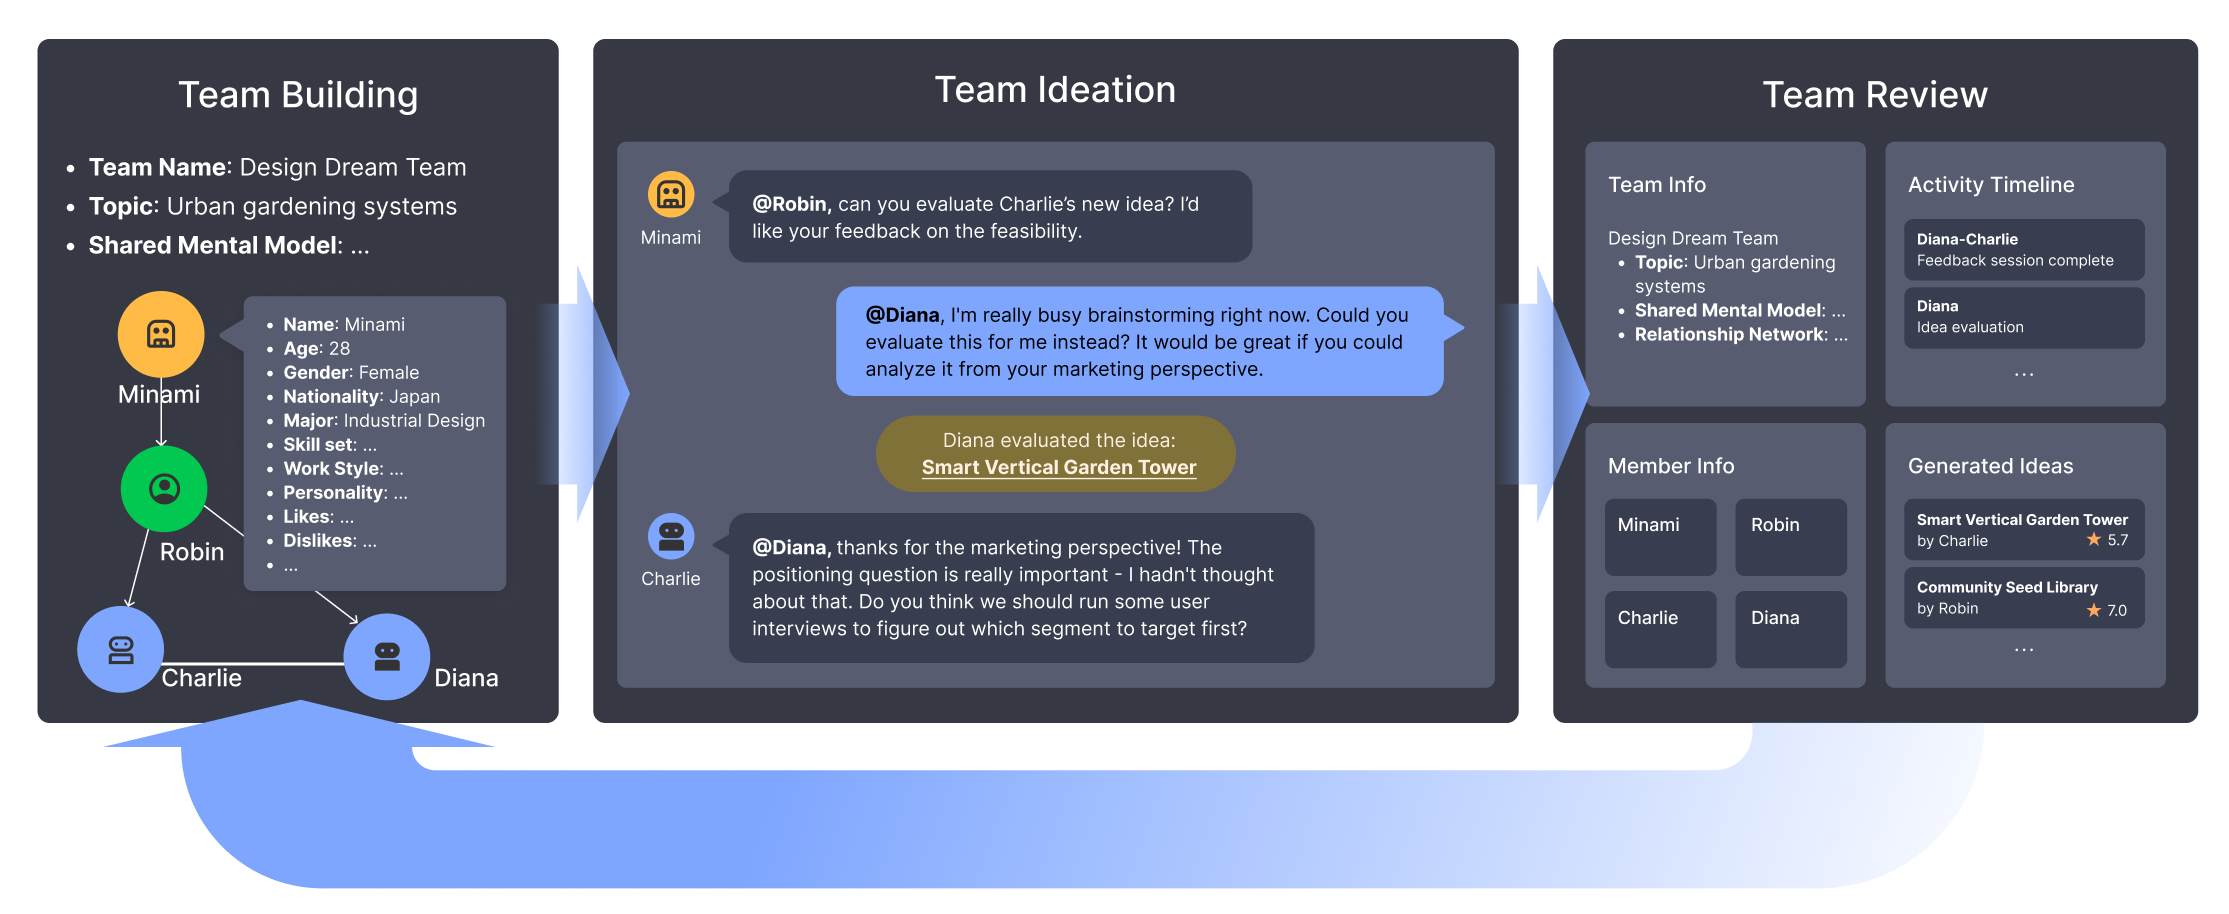
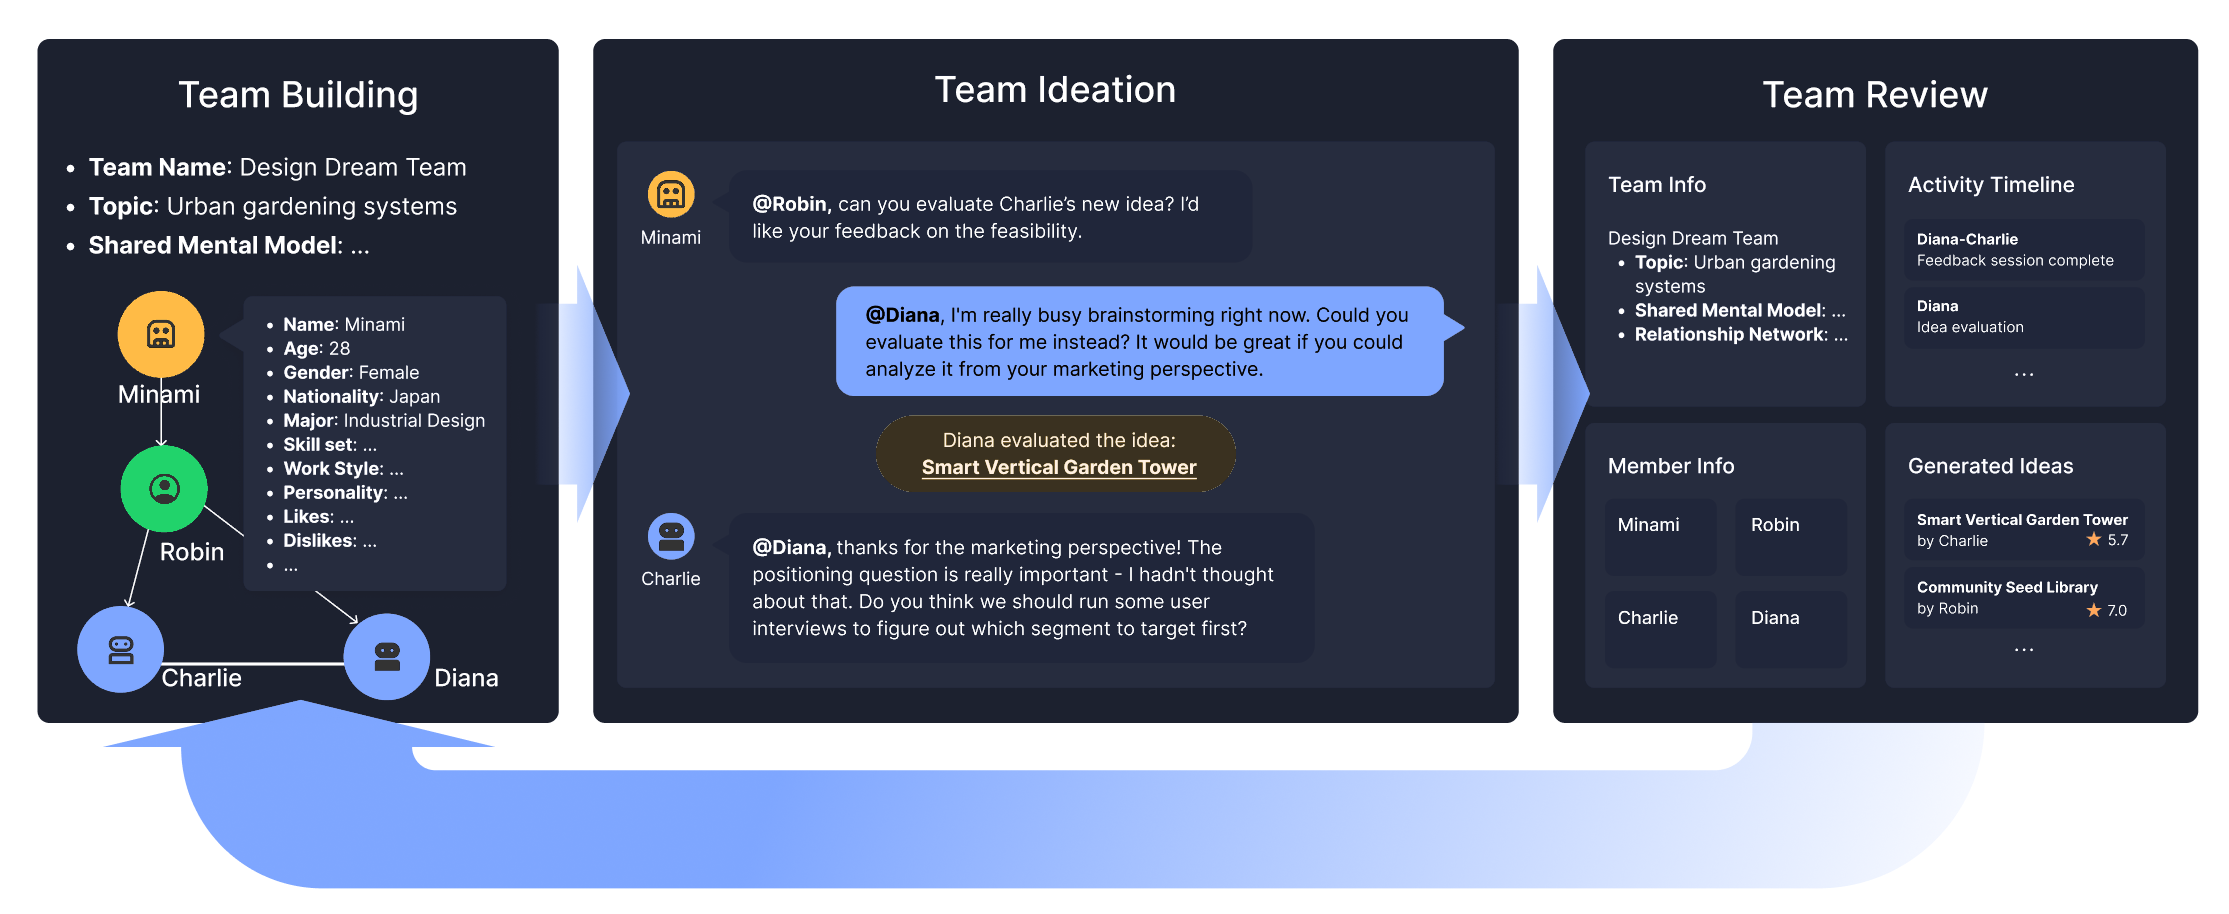
Unify CrafTeam palette between the overview figure and team cards
Add semantic --ct-blue/green/orange/card/panel/edge variables (light values
from overview.png, dark counterparts) and point the Team Formation cards at
them; recolour overview_dark.png onto the same dark palette.

diff --git a/src/Pages/Projects/Crafteam/Crafteam.css b/src/Pages/Projects/Crafteam/Crafteam.css
@@ -1,6 +1,16 @@
 /* Palette for this page — extracted from hardcoded literals. Change a color here, not in the rules below.
    Variables with a dark value are listed again in the .dark-mode block. */
 .project-page--crafteam {
+  /* Shared with public/projects/crafteam/overview(.png|_dark.png): keep the figure and the
+     Team Formation cards on one palette. Light values are the reference; dark values are the
+     counterparts the dark figure is recoloured to. */
+  --ct-blue: #2b7fff;                 /* agents, bubbles, numbers, supervisor edges */
+  --ct-green: #0fca58;                /* the human ("Me" / Robin) */
+  --ct-orange: #ffbb46;               /* accent (Minami, highlight card) */
+  --ct-card: #ffffff;                 /* outer card / tile */
+  --ct-panel: #f1f6fd;                /* inner panel (graph background) */
+  --ct-edge: rgba(31, 43, 76, 0.3);   /* peer edges */
+  --ct-edge-strong: rgba(43, 127, 255, 0.85);
   --ct-c1: #2b7fff;
   --ct-c2: #fff;
   --ct-c3: #2b7fff;
@@ -14,15 +24,10 @@
   --ct-c11: #2b2f47;
   --ct-c12: #5c6cf2;
   --ct-c13: #2b7fff;
-  --ct-c14: #ffffff;
   --ct-c15: #0d1231;
   --ct-c16: rgba(21, 28, 58, 0.7);
   --ct-c17: rgba(23, 32, 62, 0.9);
   --ct-c18: rgba(14, 21, 44, 0.8);
-  --ct-c19: rgba(86, 98, 133, 0.35);
-  --ct-c20: rgba(89, 108, 255, 0.85);
-  --ct-c21: #0dba9e;
-  --ct-c22: #7a8cff;
   --ct-c23: rgba(11, 21, 51, 0.85);
   --ct-c24: rgba(15, 22, 52, 0.65);
   --ct-c25: #fafbff;
@@ -91,6 +96,13 @@
 }
 
 .dark-mode .project-page--crafteam {
+  --ct-blue: #7ea6ff;
+  --ct-green: #22d36b;
+  --ct-orange: #ffbb46;
+  --ct-card: #1c2130;
+  --ct-panel: #262c3d;
+  --ct-edge: rgba(255, 255, 255, 0.28);
+  --ct-edge-strong: rgba(126, 166, 255, 0.9);
   --ct-c1: #7c8cff;
   --ct-c2: #0b0f25;
   --ct-c3: #4d63ff;
@@ -104,15 +116,10 @@
   --ct-c11: rgba(255, 255, 255, 0.78);
   --ct-c12: #4d63ff;
   --ct-c13: #5c6cf2;
-  --ct-c14: rgba(13, 18, 38, 0.9);
   --ct-c15: #f8f9ff;
   --ct-c16: rgba(224, 230, 255, 0.75);
   --ct-c17: rgba(240, 242, 255, 0.9);
   --ct-c18: rgba(234, 238, 255, 0.95);
-  --ct-c19: rgba(255, 255, 255, 0.18);
-  --ct-c20: rgba(115, 130, 255, 0.95);
-  --ct-c21: #33deb9;
-  --ct-c22: #6e7dff;
   --ct-c23: rgba(237, 239, 255, 0.9);
   --ct-c24: rgba(226, 231, 255, 0.6);
   --ct-c25: rgba(20, 24, 39, 0.9);
@@ -1206,7 +1213,7 @@
 }
 
 .crafteam-team-card {
-  background: var(--ct-c14);
+  background: var(--ct-card);
   border-radius: 20px;
   border: 1px solid rgba(37, 45, 78, 0.12);
   padding: 1.25rem;
@@ -1267,13 +1274,13 @@
   display: block;
   border-radius: var(--radius-frame);
   border: 1px solid rgba(46, 52, 91, 0.12);
-  background: linear-gradient(180deg, rgba(250, 251, 255, 0.9), rgba(244, 246, 255, 0.9));
+  background: var(--ct-panel);
   padding: 0.5rem 0.3rem;
   box-sizing: border-box;
 }
 
 .crafteam-team-graph__edge {
-  stroke: var(--ct-c19);
+  stroke: var(--ct-edge);
   stroke-width: 1.5;
   fill: none;
 }
@@ -1289,7 +1296,7 @@
 
 /* team-graph variants (class built as `__edge--${type}` / `__node-circle--${role}` in CrafteamUI) */
 .crafteam-team-graph__edge--supervisor {
-  stroke: var(--ct-c20);
+  stroke: var(--ct-edge-strong);
 }
 
 .crafteam-team-graph__edge--peer {
@@ -1297,11 +1304,11 @@
 }
 
 .crafteam-team-graph__node-circle--owner {
-  fill: var(--ct-c21);
+  fill: var(--ct-green);
 }
 
 .crafteam-team-graph__node-circle--agent {
-  fill: var(--ct-c22);
+  fill: var(--ct-blue);
 }
 
 
@@ -1327,7 +1334,7 @@
   display: block;
   font-size: 1.1rem;
   font-weight: 700;
-  color: #5c6bff;
+  color: var(--ct-blue);
 }
 
 .crafteam-team-card__stat-label {
@@ -1343,7 +1350,6 @@
   border-color: rgba(255, 255, 255, 0.08);
   box-shadow: none;
 }.dark-mode .crafteam-team-graph {
-  background: rgba(10, 15, 32, 0.8);
   border-color: rgba(255, 255, 255, 0.08);
 }@media (max-width: 992px) {
   .crafteam-team-row {
